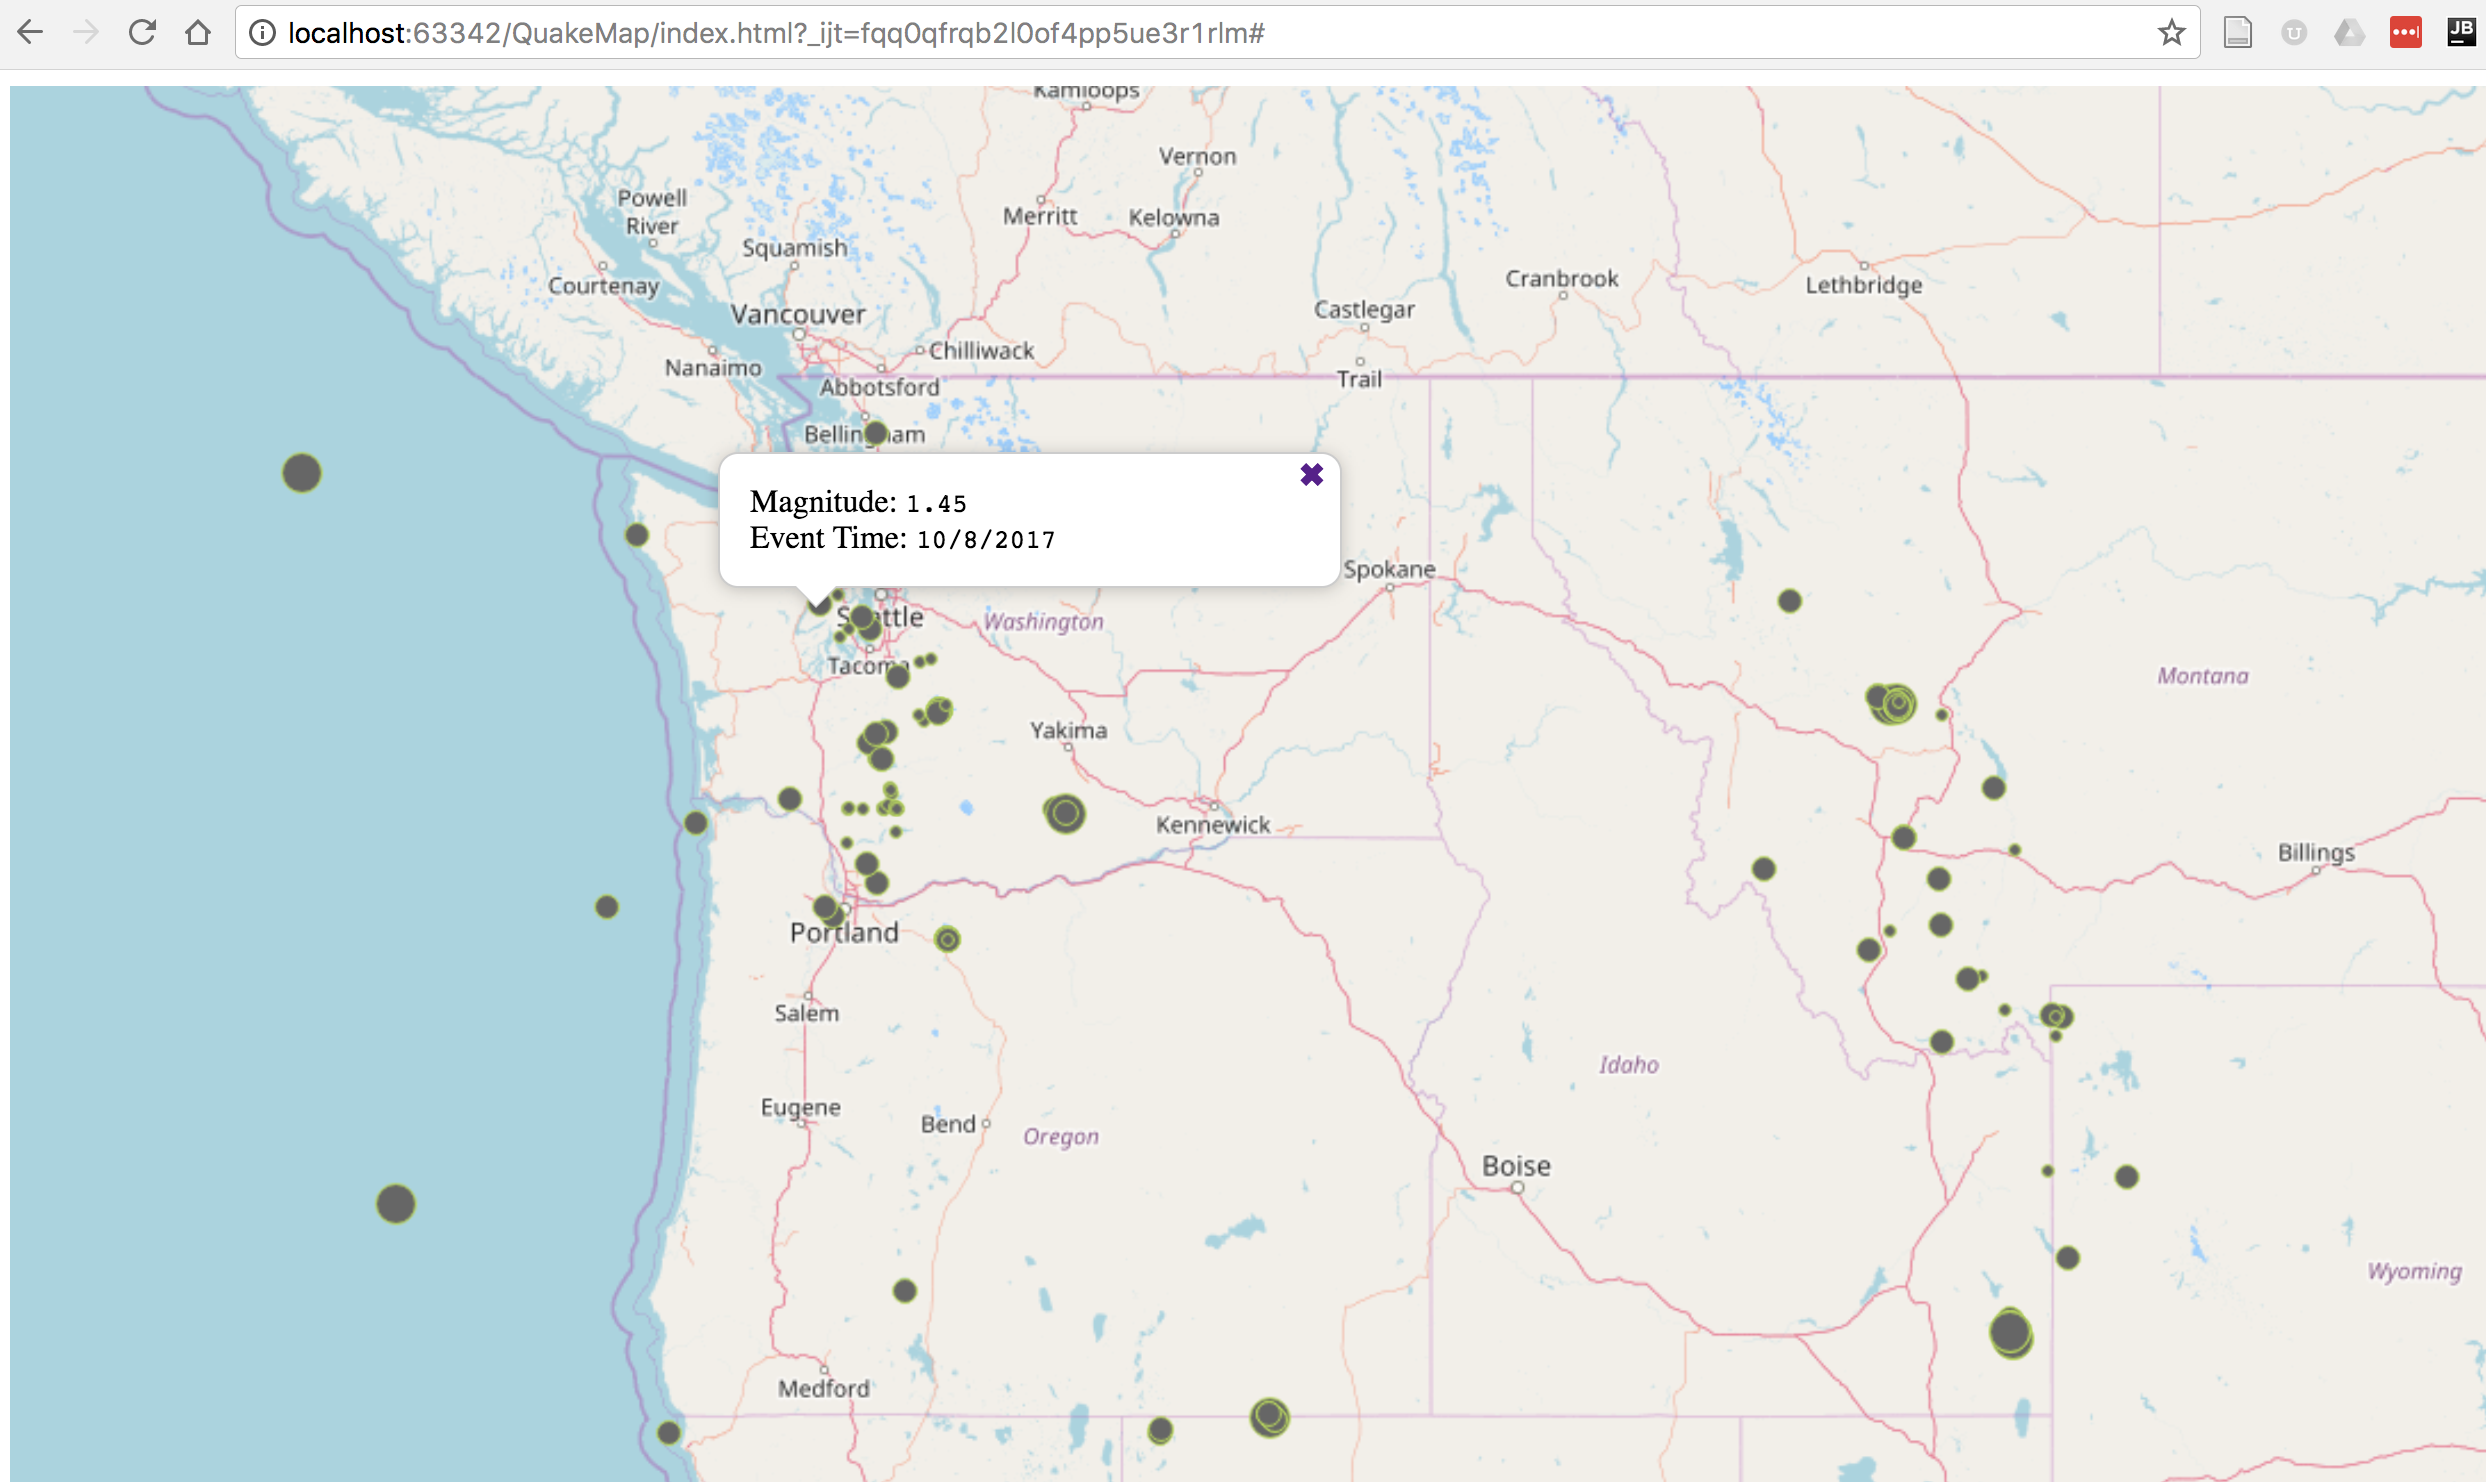
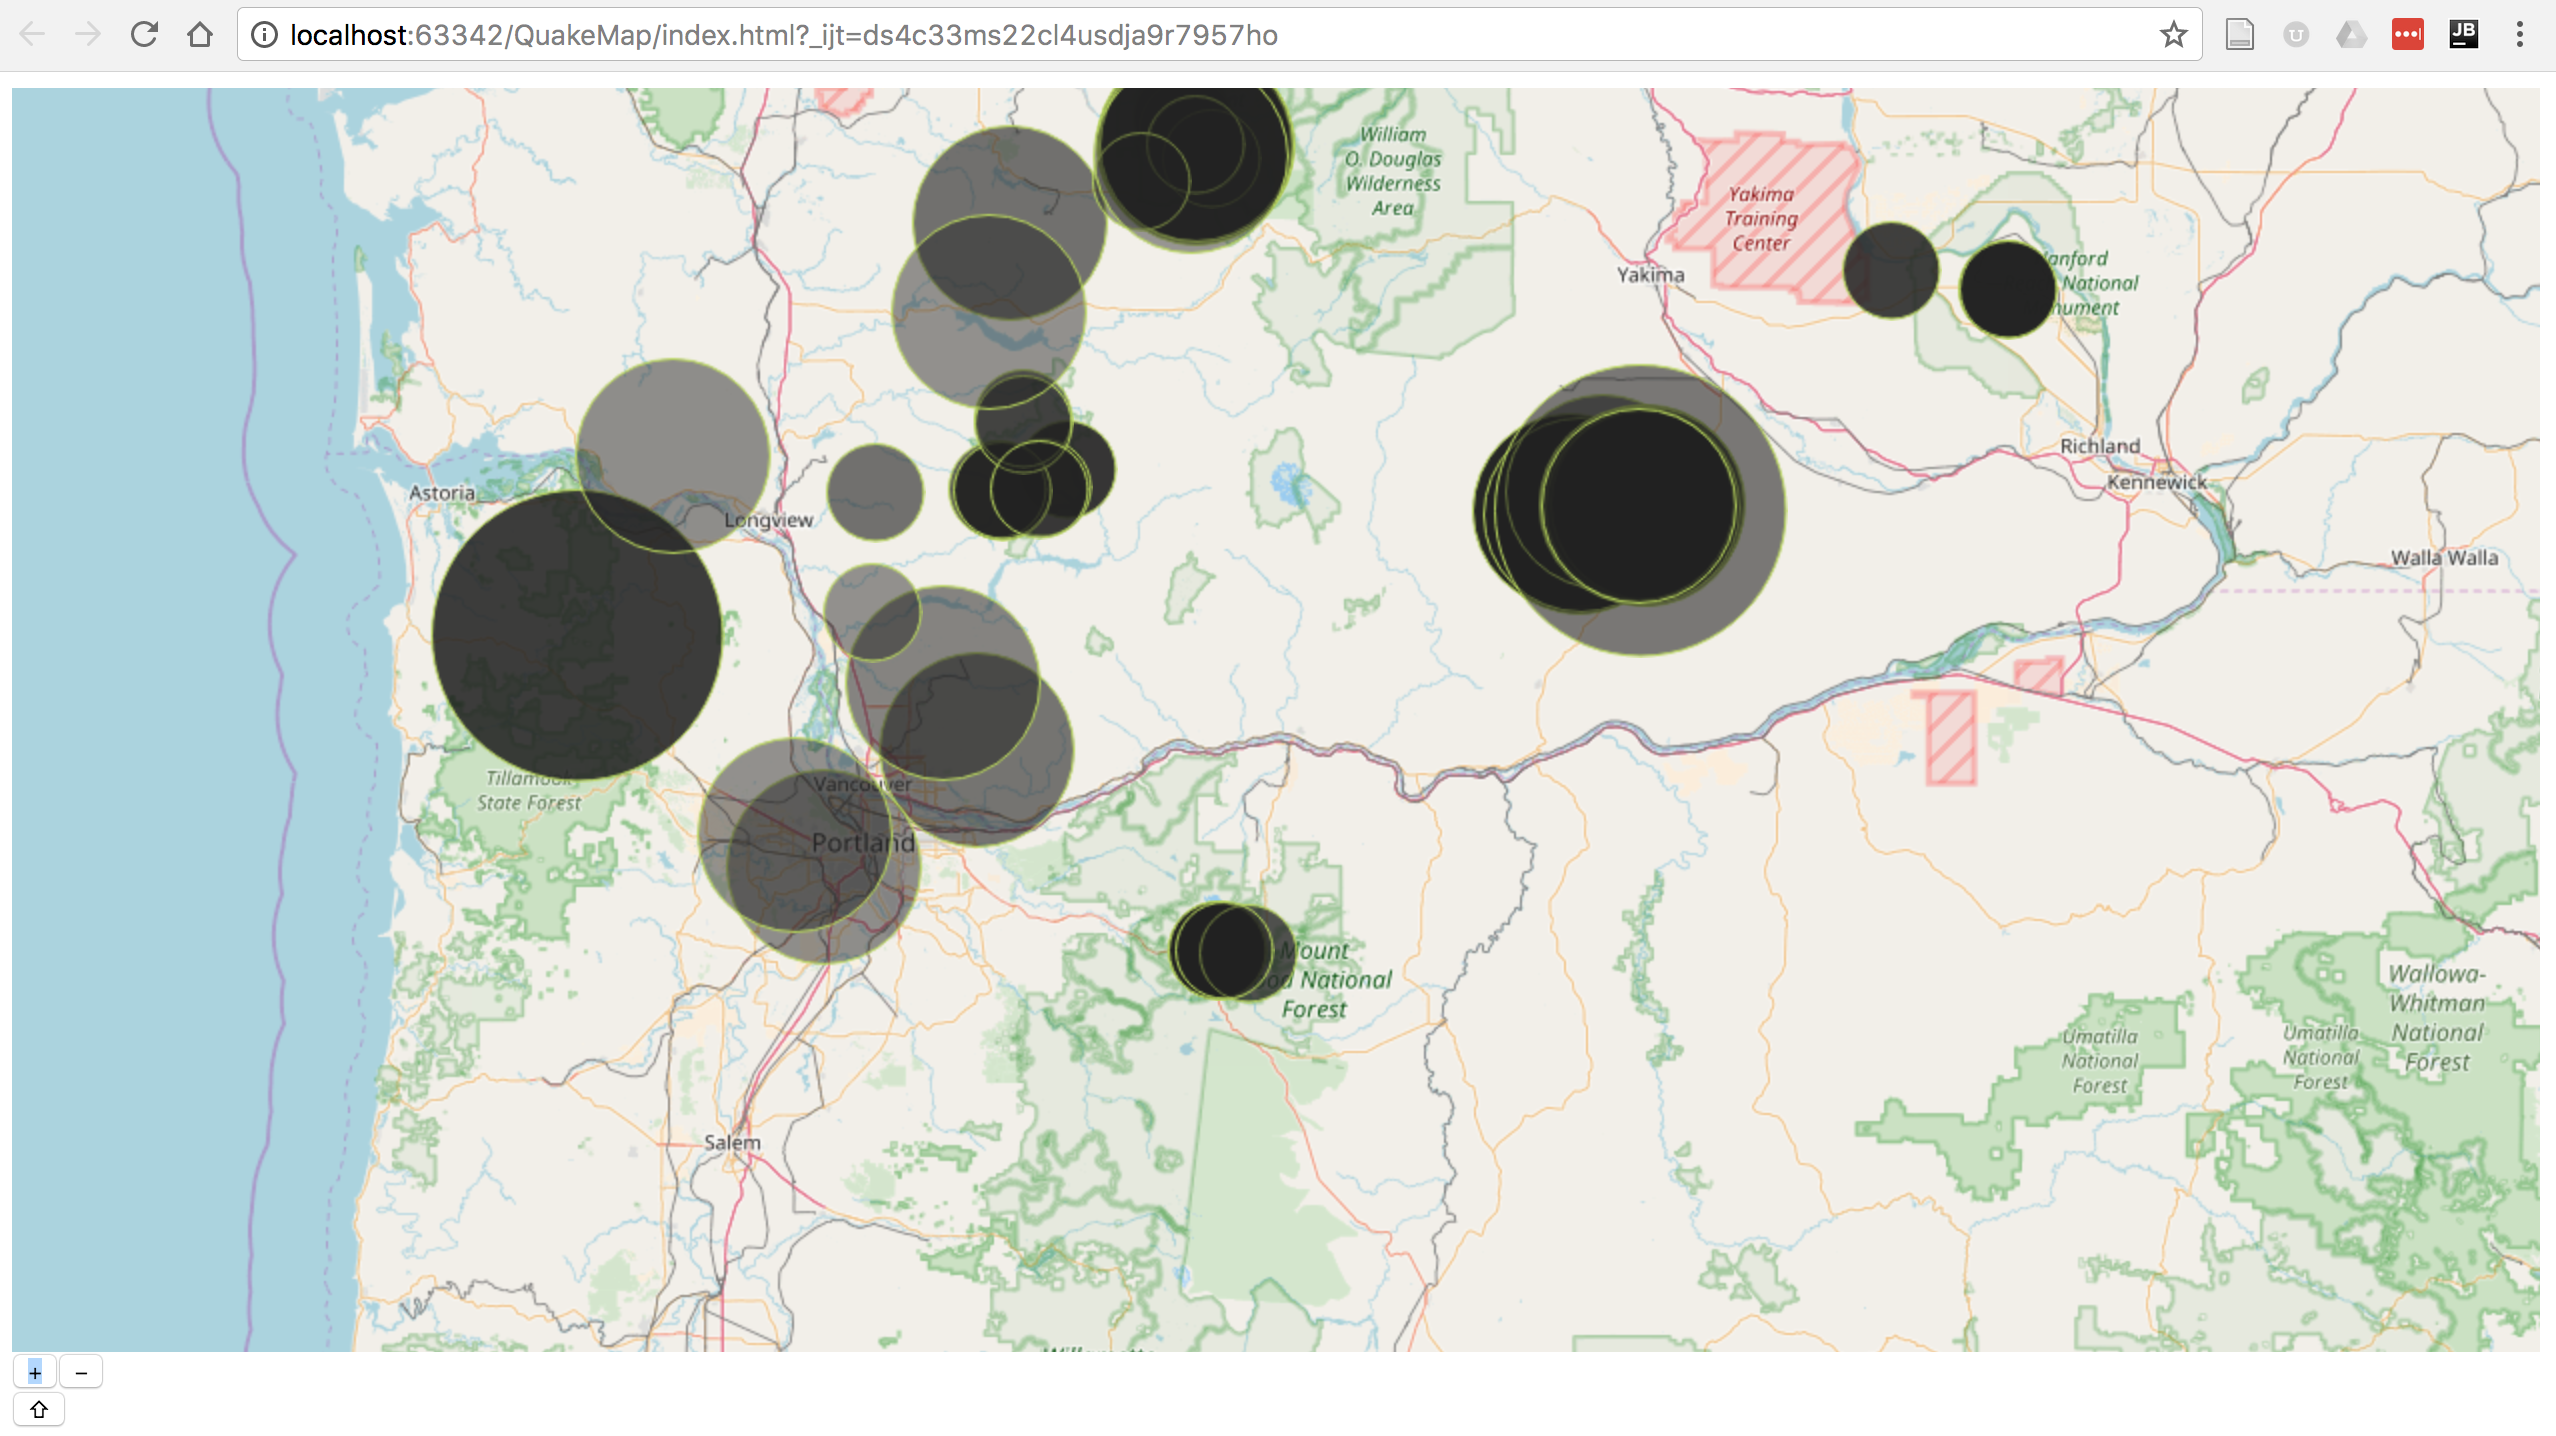
update readme for project

diff --git a/site.js b/site.js
@@ -80,7 +80,7 @@ var styles = {
     }),
     '40': new ol.style.Style({
         image: new ol.style.Circle({
-            radius: 10,
+            radius: 14,
             fill: new ol.style.Fill({color: '#bada55'}),
             stroke: new ol.style.Stroke({color: '#666666', width: 2})
         })

diff --git a/README.md b/README.md
@@ -4,8 +4,11 @@ This web app uses the [USGS earthquake API](http://earthquake.usgs.gov/earthquak
 observations for the last week using [OpenLayers](https://openlayers.org/).
 
 * The size of each dot corresponds to the strength of the earthquake
+* More recent earthquakes are more opaque
 * Clicking on a given dot displays the earthquake's magnitude and the
 time of the event
 
 ## Screenshot of the Web Map
 ![Snapshot of webmap](QuakeMap.png)
+
+![Snapshot two](QuakeMap2.png)
